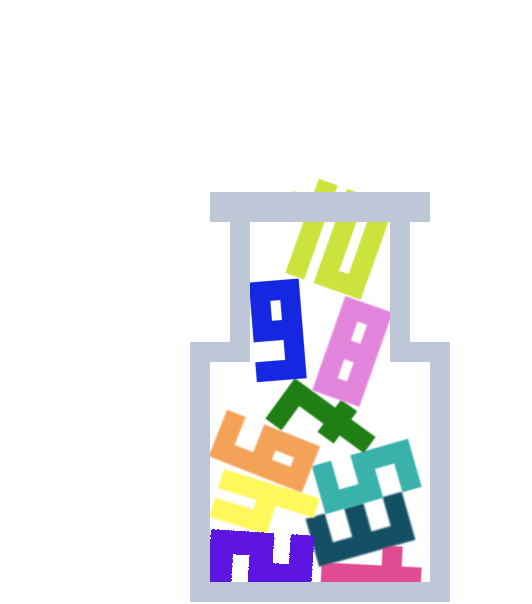
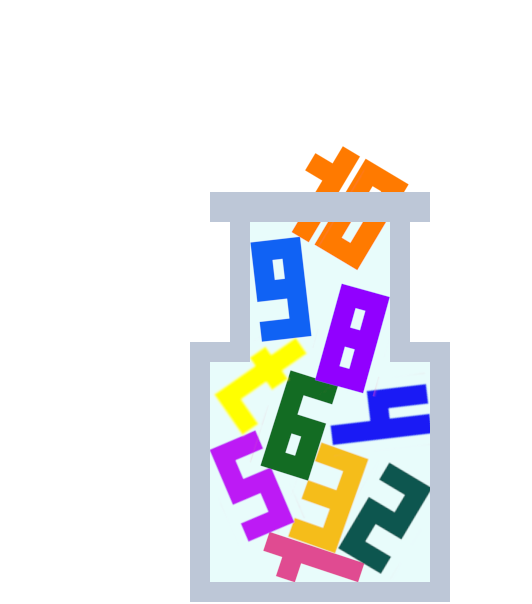
giffit päivitetty

Changed region(s): [[0.391, 0.3576, 0.812, 0.9834], [0.5714, 0.2384, 0.782, 0.3278]]

diff --git a/Matikkapeli/components/LevelBar.js b/Matikkapeli/components/LevelBar.js
@@ -14,21 +14,35 @@ export default function LevelBar({ progress, label, playerLevel, gameType, calle
 
     const levelImages = {
         0: require('../assets/purkki.png'),
-        1: require('../assets/purkki1.png'),
-        2: require('../assets/purkki2.png'),
-        3: require('../assets/purkki3.png'),
-        4: require('../assets/purkki4.png'),
-        5: require('../assets/purkki5.png'),
-        6: require('../assets/purkki6.png'),
-        7: require('../assets/purkki7.png'),
-        8: require('../assets/purkki8.png'),
-        9: require('../assets/purkki9.png'),
-        10: require('../assets/purkki10.png'),
+        5: require('../assets/purkki1.png'),
+        10: require('../assets/purkki2.png'),
+        15: require('../assets/purkki3.png'),
+        20: require('../assets/purkki4.png'),
+        25: require('../assets/purkki5.png'),
+        30: require('../assets/purkki6.png'),
+        35: require('../assets/purkki7.png'),
+        40: require('../assets/purkki8.png'),
+        45: require('../assets/purkki9.png'),
+        50: require('../assets/purkki10.png'),
     };
+
+    const progressRanges = [
+        { min: 0, max: 4, image: levelImages[0] },
+        { min: 5, max: 9, image: levelImages[5] },
+        { min: 10, max: 14, image: levelImages[10] },
+        { min: 15, max: 19, image: levelImages[15] },
+        { min: 20, max: 24, image: levelImages[20] },
+        { min: 25, max: 29, image: levelImages[25] },
+        { min: 30, max: 34, image: levelImages[30] },
+        { min: 35, max: 39, image: levelImages[35] },
+        { min: 40, max: 44, image: levelImages[40] },
+        { min: 45, max: 49, image: levelImages[45] },
+        { min: 50, max: 50, image: levelImages[50] },
+    ];
     
     const levelGifs = {
-        5: require('../assets/purkki.gif'),
-        10: require('../assets/purkki1.gif'),
+        5: require('../assets/purkki1.gif'),
+        10: require('../assets/purkki2.gif'),
         15: require('../assets/purkki3.gif'),
         20: require('../assets/purkki4.gif'),
         25: require('../assets/purkki5.gif'),
@@ -48,11 +62,17 @@ export default function LevelBar({ progress, label, playerLevel, gameType, calle
             : Math.min(((progress - (playerLevel - 1) * 5) / 5) * 100, 100);
     };
 
-    const updateMilestoneImage = (milestone) => {
-        console.log(`updateMilestoneImage: milestone=${milestone}, gifVisible=${gifVisible}`);
-        const newImage = gifVisible ? levelGifs[milestone] : levelImages[Math.floor(milestone / 5)];
-        if (newImage !== levelImage) {
-            setLevelImage(newImage); 
+    const updateMilestoneImage = (progress) => {
+        console.log(`updateMilestoneImage: progress=${progress}, gifVisible=${gifVisible}`);
+    
+        // Find the correct range based on the progress
+        const range = progressRanges.find(range => progress >= range.min && progress <= range.max);
+        
+        if (range) {
+            const newImage = gifVisible ? levelGifs[range.min] : range.image;
+            if (newImage !== levelImage) {
+                setLevelImage(newImage); 
+            }
         }
     };
 
@@ -69,7 +89,7 @@ export default function LevelBar({ progress, label, playerLevel, gameType, calle
                 clearTimeout(gifTimer.current);
                 gifTimer.current = setTimeout(() => {
                     setGifVisible(false);
-                    setLevelImage(levelImages[Math.floor(milestone / 5)] || levelImages[0]);
+                    setLevelImage(levelImages[milestone] || levelImages[0]);
                 }, 2000);
             }
 
@@ -82,7 +102,7 @@ export default function LevelBar({ progress, label, playerLevel, gameType, calle
         const normalizedProgress = normalizeProgress(progress, playerLevel);
         progressWidth.value = withTiming(normalizedProgress, { duration: 500 });
 
-        const milestone = Math.floor(progress / 5) * 5;
+        const milestone = progress ;
 
         handleMilestoneGif(milestone);
         updateMilestoneImage(milestone);
@@ -126,7 +146,7 @@ export default function LevelBar({ progress, label, playerLevel, gameType, calle
 
 const styles = StyleSheet.create({
     container: {
-        width: '80%',
+        width: '70%',
         alignItems: 'center',
         marginTop: 20,
     },
@@ -153,7 +173,6 @@ const styles = StyleSheet.create({
         marginBottom: 10,
     },
     imageContainer: {
-        marginLeft: 20,
         justifyContent: 'center',
         alignItems: 'center',
     },
@@ -173,8 +192,9 @@ const styles = StyleSheet.create({
         color: '#333',
     },
     levelImage: {
-        width: 40,
-        height: 70,
-        resizeMode: 'contain',
+        width: 80,
+        height: 90,
+        bottom: -15, // Ensures the static image stays in place
+        position: 'absolute'
     },
 });
